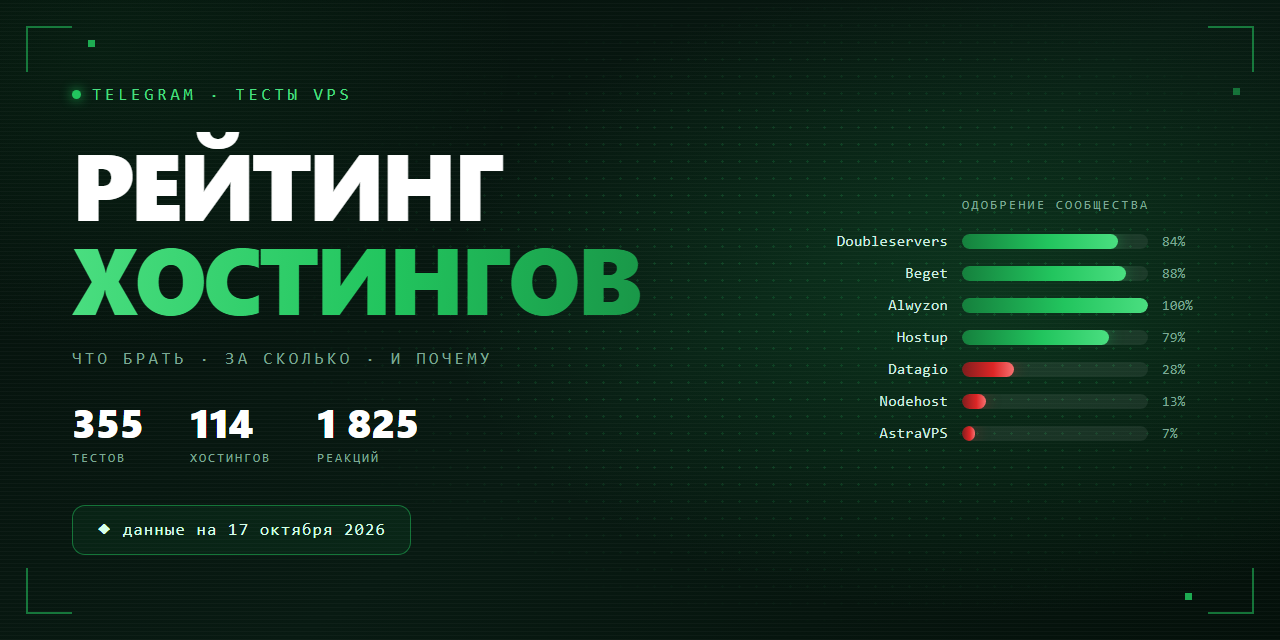
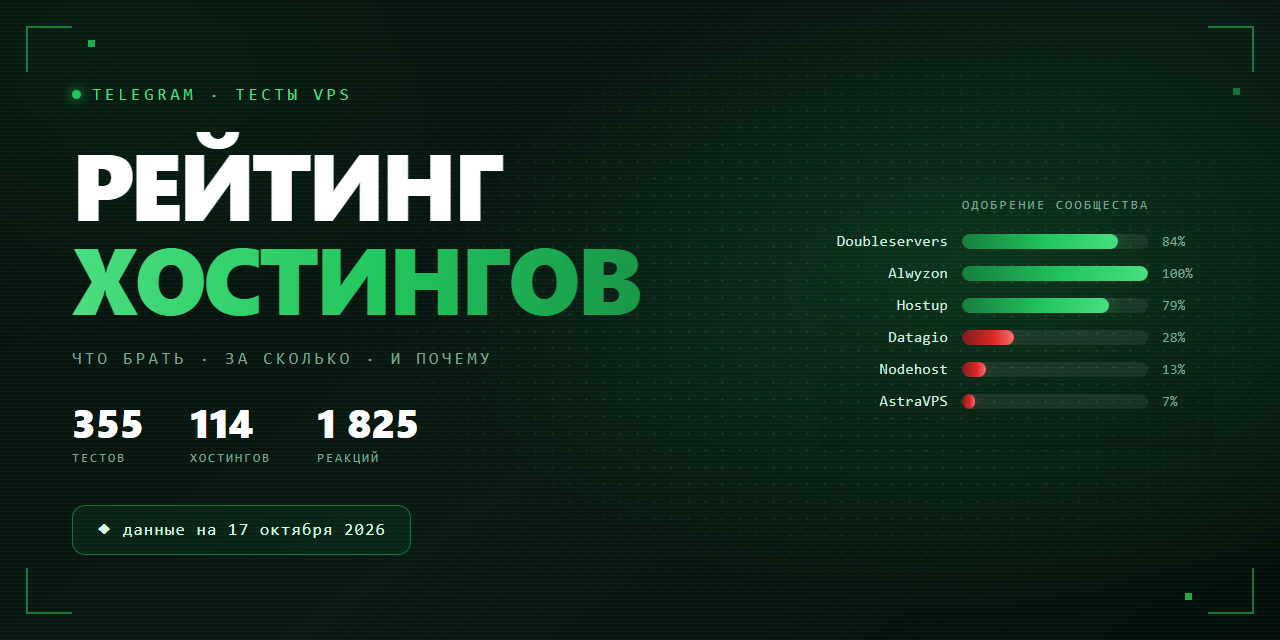
Убрать Beget из рейтинга
Удалены записи Beget из README (топ, «Мост из РФ», полный рейтинг),
DISCUSSION_RATING.md, упоминания в CHANGELOG и полоса на баннере.
Таблицы перенумерованы, число оценённых хостингов 59 → 58.

Changed region(s): [[0.6875, 0.4062, 0.9375, 0.6875], [0.9062, 0.625, 0.9375, 0.6875], [0.6875, 0.4062, 0.75, 0.4375]]

diff --git a/README.md b/README.md
@@ -14,12 +14,11 @@
 
 ## ⚡ Если не хочется читать
 
-Четыре варианта, которые закрывают большинство запросов. Процент — доля положительных реакций, рядом указано, на скольких голосах она посчитана.
+Три варианта, которые закрывают большинство запросов. Процент — доля положительных реакций, рядом указано, на скольких голосах она посчитана.
 
 | | Берите | Цена | Почему именно его |
 |:---:|---|---|---|
 | 🏆 | **[Doubleservers](https://doubleservers.com)**<br>🇫🇷🇩🇪🇵🇱 | ≈ 12 € | **84%** одобрения при 56 голосах — по-прежнему самая надёжная оценка в рейтинге: 10 тестов от 7 разных авторов, ни одного провального. Берут под ноды, панели и ботов. Из РФ нужен мост |
-| 🇷🇺 | **[Beget](https://beget.com)**<br>🇷🇺🇱🇻 | ≈ 660 ₽ | **88%** при 24 голосах, 9 тестов от 6 авторов. Лучший выбор **под мост из РФ**: рублёвые карты, посуточная оплата. Новых тестов с конца августа не было |
 | 🌐 | **[Alwyzon](https://alwyzon.com)**<br>🇦🇹 | ≈ 4.5 € | **100%** при 15 голосах. Оба теста отмечают, что **мост из РФ не нужен**. Выборка небольшая — это лучший из доступных вариантов «без моста», а не гарантия |
 | 💸 | **[Hostup](https://hostup.se)**<br>🇸🇪 | ≈ 4.5 € | **79%** при 14 голосах, три теста от трёх авторов, свежий в сентябре — без падений за месяц. 10 Гбит, 2 ТБ трафика, KYC не просят. Оплата только зарубежными способами |
 
@@ -54,7 +53,7 @@
 |---|---|---|
 | **Нода VPN без моста** | [Waicore](https://waicore.com) · [Rawi Host](https://rawi.host) · [Xytor](https://xytor.cloud) · [Alwyzon](https://alwyzon.com) | Alwyzon — 100% при 15 голосах, оба теста без моста. Xytor — 54% при 41 голосе; в «Обсуждении» его хвалит в том числе представитель хостинга. У Rawi Host 5 независимых голосов, у Waicore — 3. Puws.Cloud, который здесь раньше советовали, — скам с 09.10 |
 | **Нода VPN с мостом из РФ** | [Doubleservers](https://doubleservers.com) · [Hetzner](https://hetzner.com) · [OVH](https://ovhcloud.com) | Doubleservers — 84% при 56 голосах, самый надёжный сигнал в рейтинге. У Hetzner и OVH за период по одному тесту |
-| **Мост из РФ** | [Beget](https://beget.com) — чаще всех · [Selectel](https://selectel.ru) · [TimeWeb](https://timeweb.cloud) | Beget 88%, Selectel 100% — оба подтверждены тестами, но новых с конца лета нет |
+| **Мост из РФ** | [Selectel](https://selectel.ru) · [TimeWeb](https://timeweb.cloud) | Selectel 100% — подтверждён тестами, но новых с конца лета нет |
 | **Панель + бот** | [Hetzner](https://hetzner.com) · [OVH](https://ovhcloud.com) · [Doubleservers](https://doubleservers.com) | По Hetzner и OVH данных мало. Doubleservers подтверждён |
 | **Максимальная стабильность** | [Hetzner](https://hetzner.com) · [OVH](https://ovhcloud.com) | Советуют по репутации, в тестах этого периода почти не встречаются |
 | **Экзотические локации** | Норвегия — [SharpTech](https://shrp.no); Таиланд — Metrabyte; Япония — [Akenai](https://akenai.host) · [Zeabur](https://zeabur.com); Латвия — [Veesp](https://veesp.com) | SharpTech и Metrabyte — по одному тесту, но без единого минуса |
@@ -115,8 +114,7 @@
 | 3 | **Metrabyte** | `██████████` **100%** | 730 ₽ | 10 ●●○ | 1 | = | 🇹🇭 |
 | 4 | **[Doubleservers](https://doubleservers.com)** | `████████░░` **84%** | €12 | 56 ●●● | 10 | 📉 | 🇫🇷🇩🇪🇵🇱 |
 | 5 | **[Selectel](https://selectel.ru)** | `██████████` **100%** | 250 ₽ | 9 ●○○ | 4 | — | 🇷🇺🇰🇿 |
-| 6 | **[Beget](https://beget.com)** | `█████████░` **88%** | 660 ₽ | 24 ●●○ | 9 | — | 🇷🇺🇱🇻 |
-| 7 | **[Hostdzire](https://hostdzire.com)** | `██████████` **100%** | €10 | 7 ●○○ | 1 | = | — |
+| 6 | **[Hostdzire](https://hostdzire.com)** | `██████████` **100%** | €10 | 7 ●○○ | 1 | = | — |
 
 ### 🔵 Рабочие
 
@@ -124,16 +122,16 @@
 
 | # | Хостинг | Одобрение | Цена | Голосов | Тестов | Тренд | Страны |
 |:---:|---|---|:---:|:---:|:---:|:---:|:---:|
-| 8 | **[Hostup](https://hostup.se)** | `████████░░` **79%** | €4.55 | 14 ●●○ | 3 | = | 🇸🇪 |
-| 9 | **[Tihost](https://t.me/Tihost)** | `███████░░░` **68%** | — | 19 ●●○ | 5 | 📉 | 🇫🇮🇩🇪🇵🇱 |
-| 10 | **[Soulful Hosting](https://soulful.host)** 🏷 | `█████░░░░░` **54%** | €5 | 61 ●●● | 10 | = | 🇩🇪🇪🇪🇵🇱 |
-| 11 | **H2Nexus** | `███████░░░` **67%** | — | 15 ●●○ | 1 | = | 🇫🇮 |
-| 12 | **[Xytor](https://xytor.cloud)** 🏷 | `█████░░░░░` **54%** | 474 ₽ | 41 ●●● | 10 | = | 🇵🇱 |
-| 13 | **[Akenai](https://akenai.host)** | `█████░░░░░` **51%** | $12.99 | 51 ●●● | 12 | = | 🇩🇪🇳🇱🇯🇵🇬🇧🇮🇹 |
-| 14 | **[Turtleguard](https://turtleguard.cloud)** | `██████░░░░` **55%** | $15.5 | 29 ●●● | 6 | = | 🇩🇪🇳🇱🇵🇱 |
-| 15 | **[Rawi Host](https://rawi.host)** 🏷 | `████████░░` **80%** | $6 | 5 ●○○ | 5 | = | 🇵🇱🇳🇱 |
-| 16 | **VerdianCloud** | `██████░░░░` **62%** | €13.25 | 13 ●●○ | 3 | = | 🇳🇱 |
-| 17 | **[Freakhosting](https://freakhosting.com)** | `██████░░░░` **60%** | 214 ₽ | 10 ●●○ | 3 | — | 🇩🇪🇺🇸 |
+| 7 | **[Hostup](https://hostup.se)** | `████████░░` **79%** | €4.55 | 14 ●●○ | 3 | = | 🇸🇪 |
+| 8 | **[Tihost](https://t.me/Tihost)** | `███████░░░` **68%** | — | 19 ●●○ | 5 | 📉 | 🇫🇮🇩🇪🇵🇱 |
+| 9 | **[Soulful Hosting](https://soulful.host)** 🏷 | `█████░░░░░` **54%** | €5 | 61 ●●● | 10 | = | 🇩🇪🇪🇪🇵🇱 |
+| 10 | **H2Nexus** | `███████░░░` **67%** | — | 15 ●●○ | 1 | = | 🇫🇮 |
+| 11 | **[Xytor](https://xytor.cloud)** 🏷 | `█████░░░░░` **54%** | 474 ₽ | 41 ●●● | 10 | = | 🇵🇱 |
+| 12 | **[Akenai](https://akenai.host)** | `█████░░░░░` **51%** | $12.99 | 51 ●●● | 12 | = | 🇩🇪🇳🇱🇯🇵🇬🇧🇮🇹 |
+| 13 | **[Turtleguard](https://turtleguard.cloud)** | `██████░░░░` **55%** | $15.5 | 29 ●●● | 6 | = | 🇩🇪🇳🇱🇵🇱 |
+| 14 | **[Rawi Host](https://rawi.host)** 🏷 | `████████░░` **80%** | $6 | 5 ●○○ | 5 | = | 🇵🇱🇳🇱 |
+| 15 | **VerdianCloud** | `██████░░░░` **62%** | €13.25 | 13 ●●○ | 3 | = | 🇳🇱 |
+| 16 | **[Freakhosting](https://freakhosting.com)** | `██████░░░░` **60%** | 214 ₽ | 10 ●●○ | 3 | — | 🇩🇪🇺🇸 |
 
 ### 🟡 Спорные
 
@@ -141,16 +139,16 @@
 
 | # | Хостинг | Одобрение | Цена | Голосов | Тестов | Тренд | Страны |
 |:---:|---|---|:---:|:---:|:---:|:---:|:---:|
-| 18 | **StenCloud** 🏷 | `█████░░░░░` **45%** | €6 | 33 ●●● | 6 | = | 🇪🇪🇳🇱 |
-| 19 | **[Vyrex](https://vyrex.co)** 🏷 | `████░░░░░░` **44%** | 554 ₽ | 39 ●●● | 11 | = | 🇳🇱🇩🇪🇵🇱 |
-| 20 | **[CiraCloud](https://t.me/ciraCloud_bot)** | `████░░░░░░` **43%** | 306 ₽ | 28 ●●● | 3 | = | 🇵🇱🇫🇮 |
-| 21 | **[Hip-Hosting](https://hshp.host)** | `████░░░░░░` **36%** | 320 ₽ | 45 ●●● | 10 | = | 🇩🇪🇪🇪🇷🇺🇱🇹 |
-| 22 | **[Cloudrix](https://cloudrix.ru)** | `██████░░░░` **60%** | — | 5 ●○○ | 1 | — | 🇷🇺 |
-| 23 | **[Datagio](https://datagio.net)** 🏷 | `███░░░░░░░` **28%** | 434 ₽ | 124 ●●● | 20 | = | 🇩🇪🇳🇱🇵🇱🇪🇪 |
-| 24 | **[Play2Go](https://play2go.cloud)** 🎭 | `███░░░░░░░` **28%** | 615 ₽ | 76 ●●● | 6 | 📈 | 🇩🇪🇵🇱🇸🇪🇫🇮 |
-| 25 | **[Aeza](https://aeza.net)** | `███░░░░░░░` **27%** | €5.93 | 66 ●●● | 10 | 📈 | 🇫🇮🇷🇺🇩🇪 |
-| 26 | **Cherry Servers** | `████░░░░░░` **36%** | — | 14 ●●○ | 2 | = | 🇸🇪🇳🇱 |
-| 27 | **[Dedicate IT](https://t.me/dedicate_it_bot)** | `████░░░░░░` **43%** | 599 ₽ | 7 ●○○ | 1 | — | 🇩🇪 |
+| 17 | **StenCloud** 🏷 | `█████░░░░░` **45%** | €6 | 33 ●●● | 6 | = | 🇪🇪🇳🇱 |
+| 18 | **[Vyrex](https://vyrex.co)** 🏷 | `████░░░░░░` **44%** | 554 ₽ | 39 ●●● | 11 | = | 🇳🇱🇩🇪🇵🇱 |
+| 19 | **[CiraCloud](https://t.me/ciraCloud_bot)** | `████░░░░░░` **43%** | 306 ₽ | 28 ●●● | 3 | = | 🇵🇱🇫🇮 |
+| 20 | **[Hip-Hosting](https://hshp.host)** | `████░░░░░░` **36%** | 320 ₽ | 45 ●●● | 10 | = | 🇩🇪🇪🇪🇷🇺🇱🇹 |
+| 21 | **[Cloudrix](https://cloudrix.ru)** | `██████░░░░` **60%** | — | 5 ●○○ | 1 | — | 🇷🇺 |
+| 22 | **[Datagio](https://datagio.net)** 🏷 | `███░░░░░░░` **28%** | 434 ₽ | 124 ●●● | 20 | = | 🇩🇪🇳🇱🇵🇱🇪🇪 |
+| 23 | **[Play2Go](https://play2go.cloud)** 🎭 | `███░░░░░░░` **28%** | 615 ₽ | 76 ●●● | 6 | 📈 | 🇩🇪🇵🇱🇸🇪🇫🇮 |
+| 24 | **[Aeza](https://aeza.net)** | `███░░░░░░░` **27%** | €5.93 | 66 ●●● | 10 | 📈 | 🇫🇮🇷🇺🇩🇪 |
+| 25 | **Cherry Servers** | `████░░░░░░` **36%** | — | 14 ●●○ | 2 | = | 🇸🇪🇳🇱 |
+| 26 | **[Dedicate IT](https://t.me/dedicate_it_bot)** | `████░░░░░░` **43%** | 599 ₽ | 7 ●○○ | 1 | — | 🇩🇪 |
 
 ### 🔴 Избегать
 
@@ -158,38 +156,38 @@
 
 | # | Хостинг | Одобрение | Цена | Голосов | Тестов | Тренд | Страны |
 |:---:|---|---|:---:|:---:|:---:|:---:|:---:|
-| 28 | **[Clouvider](https://clouvider.com)** | `████░░░░░░` **38%** | €4.05 | 8 ●○○ | 1 | — | 🇳🇱 |
-| 29 | **[Forestsnet](https://forestsnet.cloud)** | `████░░░░░░` **38%** | €4.8 | 8 ●○○ | 3 | = | 🇳🇱 |
-| 30 | **[Hosting-Russia](https://hosting-russia.ru)** | `████░░░░░░` **38%** | 250 ₽ | 8 ●○○ | 2 | = | 🇷🇺 |
-| 31 | **[ExpressHost](https://t.me/ExpressHost_Bot)** | `██░░░░░░░░` **18%** | $3.505 | 114 ●●● | 12 | 📉 | 🇳🇱🇪🇪🇵🇱 |
-| 32 | **PowerRDP** 🎭 | `██░░░░░░░░` **25%** | $6 | 16 ●●○ | 3 | = | 🇵🇱 |
-| 33 | **[Nodehost](https://nodehost.ru)** | `█░░░░░░░░░` **13%** | 202 ₽ | 111 ●●● | 11 | = | 🇫🇮🇸🇪🇵🇱🇳🇱🇩🇪 |
-| 34 | **[OneDash](https://t.me/OneDash)** | `█░░░░░░░░░` **14%** | 214 ₽ | 74 ●●● | 10 | = | 🇩🇪🇳🇱🇺🇸🇷🇺🇫🇮 |
-| 35 | **[1cent.host](https://1cent.host)** | `██░░░░░░░░` **18%** | 693 ₽ | 22 ●●○ | 4 | = | 🇩🇪🇪🇪🇫🇮 |
-| 36 | **LunarHost** | `█░░░░░░░░░` **13%** | 600 ₽ | 31 ●●● | 3 | = | 🇳🇱🇩🇪 |
-| 37 | **[VoltNode](https://t.me/voltnode_bot)** | `█░░░░░░░░░` **13%** | 699 ₽ | 23 ●●○ | 2 | = | 🇩🇪 |
-| 38 | **[Intezio](https://intezio.net)** | `██░░░░░░░░` **15%** | 310 ₽ | 13 ●●○ | 2 | = | 🇵🇱 |
-| 39 | **[AstraVPS](https://astravps.ru)** 🏷 🎭 | `█░░░░░░░░░` **7%** | 460 ₽ | 145 ●●● | 20 | = | 🇪🇪🇫🇮🇳🇱🇩🇪🇵🇱 |
-| 40 | **[Awas](https://awas.ovh)** | `██░░░░░░░░` **20%** | 300 ₽ | 5 ●○○ | 2 | — | 🇩🇪 |
-| 41 | **[Lili.cloud](https://lili.cloud)** | `██░░░░░░░░` **20%** | €12.5 | 5 ●○○ | 1 | = | 🇳🇱 |
-| 42 | **[Qwins](https://qwins.co)** | `█░░░░░░░░░` **8%** | $5 | 49 ●●● | 5 | = | 🇵🇱🇳🇱 |
-| 43 | **Wuldi** | `█░░░░░░░░░` **10%** | €8 | 10 ●●○ | 4 | = | 🇨🇿🇳🇱 |
-| 44 | **[It-Garage](https://it-garage.pro)** | `█░░░░░░░░░` **8%** | €6.75 | 12 ●●○ | 1 | — | 🇩🇪 |
-| 45 | **[ToolVPS](https://toolvps.com)** | `█░░░░░░░░░` **8%** | — | 12 ●●○ | 2 | = | 🇳🇱 |
-| 46 | **[Hostes.io](https://hostes.io)** 🏷 | `░░░░░░░░░░` **4%** | $10 | 48 ●●● | 6 | = | 🇳🇱🇵🇱🇩🇪 |
-| 47 | **Eternity Cloud** 🏷 | `█░░░░░░░░░` **6%** | €7 | 16 ●●○ | 3 | — | 🇪🇪🇩🇪 |
-| 48 | **[AdminVPS](https://adminvps.ru)** | `░░░░░░░░░░` **0%** | 799 ₽ | 34 ●●● | 2 | = | 🇷🇺🇵🇱 |
-| 49 | **[VpsPay](https://t.me/VPSPay_bot)** | `░░░░░░░░░░` **0%** | $3.9 | 24 ●●○ | 2 | — | 🇫🇮 |
-| 50 | **[4VPS](https://4vps.su)** | `░░░░░░░░░░` **0%** | 590 ₽ | 12 ●●○ | 3 | — | 🇭🇰🇺🇸🇦🇹 |
-| 51 | **[H1Cloud](https://h1cloud.net)** 🏷 | `░░░░░░░░░░` **0%** | 175 ₽ | 11 ●●○ | 2 | = | 🇨🇭🇳🇱 |
-| 52 | **[DataCheap](https://datacheap.ru)** | `░░░░░░░░░░` **0%** | 639 ₽ | 10 ●●○ | 1 | = | 🇳🇱 |
-| 53 | **Dataforest** | `░░░░░░░░░░` **0%** | — | 9 ●○○ | 1 | = | — |
-| 54 | **[MTW](https://mtw.ru)** | `░░░░░░░░░░` **0%** | 385 ₽ | 7 ●○○ | 1 | — | 🇷🇺 |
-| 55 | **[Serverspace](https://serverspace.ru)** | `░░░░░░░░░░` **0%** | — | 6 ●○○ | 2 | — | 🇳🇱🇰🇿 |
-| 56 | **SmartApe** | `░░░░░░░░░░` **0%** | 510 ₽ | 6 ●○○ | 1 | = | — |
-| 57 | **[UFO Hosting](https://ufo.hosting)** | `░░░░░░░░░░` **0%** | — | 6 ●○○ | 1 | = | — |
-| 58 | **DieselHost** | `░░░░░░░░░░` **0%** | 277 ₽ | 5 ●○○ | 1 | = | 🇵🇱 |
-| 59 | **[NodexGo](https://t.me/NodexGoBot)** | `░░░░░░░░░░` **0%** | — | 5 ●○○ | 1 | = | — |
+| 27 | **[Clouvider](https://clouvider.com)** | `████░░░░░░` **38%** | €4.05 | 8 ●○○ | 1 | — | 🇳🇱 |
+| 28 | **[Forestsnet](https://forestsnet.cloud)** | `████░░░░░░` **38%** | €4.8 | 8 ●○○ | 3 | = | 🇳🇱 |
+| 29 | **[Hosting-Russia](https://hosting-russia.ru)** | `████░░░░░░` **38%** | 250 ₽ | 8 ●○○ | 2 | = | 🇷🇺 |
+| 30 | **[ExpressHost](https://t.me/ExpressHost_Bot)** | `██░░░░░░░░` **18%** | $3.505 | 114 ●●● | 12 | 📉 | 🇳🇱🇪🇪🇵🇱 |
+| 31 | **PowerRDP** 🎭 | `██░░░░░░░░` **25%** | $6 | 16 ●●○ | 3 | = | 🇵🇱 |
+| 32 | **[Nodehost](https://nodehost.ru)** | `█░░░░░░░░░` **13%** | 202 ₽ | 111 ●●● | 11 | = | 🇫🇮🇸🇪🇵🇱🇳🇱🇩🇪 |
+| 33 | **[OneDash](https://t.me/OneDash)** | `█░░░░░░░░░` **14%** | 214 ₽ | 74 ●●● | 10 | = | 🇩🇪🇳🇱🇺🇸🇷🇺🇫🇮 |
+| 34 | **[1cent.host](https://1cent.host)** | `██░░░░░░░░` **18%** | 693 ₽ | 22 ●●○ | 4 | = | 🇩🇪🇪🇪🇫🇮 |
+| 35 | **LunarHost** | `█░░░░░░░░░` **13%** | 600 ₽ | 31 ●●● | 3 | = | 🇳🇱🇩🇪 |
+| 36 | **[VoltNode](https://t.me/voltnode_bot)** | `█░░░░░░░░░` **13%** | 699 ₽ | 23 ●●○ | 2 | = | 🇩🇪 |
+| 37 | **[Intezio](https://intezio.net)** | `██░░░░░░░░` **15%** | 310 ₽ | 13 ●●○ | 2 | = | 🇵🇱 |
+| 38 | **[AstraVPS](https://astravps.ru)** 🏷 🎭 | `█░░░░░░░░░` **7%** | 460 ₽ | 145 ●●● | 20 | = | 🇪🇪🇫🇮🇳🇱🇩🇪🇵🇱 |
+| 39 | **[Awas](https://awas.ovh)** | `██░░░░░░░░` **20%** | 300 ₽ | 5 ●○○ | 2 | — | 🇩🇪 |
+| 40 | **[Lili.cloud](https://lili.cloud)** | `██░░░░░░░░` **20%** | €12.5 | 5 ●○○ | 1 | = | 🇳🇱 |
+| 41 | **[Qwins](https://qwins.co)** | `█░░░░░░░░░` **8%** | $5 | 49 ●●● | 5 | = | 🇵🇱🇳🇱 |
+| 42 | **Wuldi** | `█░░░░░░░░░` **10%** | €8 | 10 ●●○ | 4 | = | 🇨🇿🇳🇱 |
+| 43 | **[It-Garage](https://it-garage.pro)** | `█░░░░░░░░░` **8%** | €6.75 | 12 ●●○ | 1 | — | 🇩🇪 |
+| 44 | **[ToolVPS](https://toolvps.com)** | `█░░░░░░░░░` **8%** | — | 12 ●●○ | 2 | = | 🇳🇱 |
+| 45 | **[Hostes.io](https://hostes.io)** 🏷 | `░░░░░░░░░░` **4%** | $10 | 48 ●●● | 6 | = | 🇳🇱🇵🇱🇩🇪 |
+| 46 | **Eternity Cloud** 🏷 | `█░░░░░░░░░` **6%** | €7 | 16 ●●○ | 3 | — | 🇪🇪🇩🇪 |
+| 47 | **[AdminVPS](https://adminvps.ru)** | `░░░░░░░░░░` **0%** | 799 ₽ | 34 ●●● | 2 | = | 🇷🇺🇵🇱 |
+| 48 | **[VpsPay](https://t.me/VPSPay_bot)** | `░░░░░░░░░░` **0%** | $3.9 | 24 ●●○ | 2 | — | 🇫🇮 |
+| 49 | **[4VPS](https://4vps.su)** | `░░░░░░░░░░` **0%** | 590 ₽ | 12 ●●○ | 3 | — | 🇭🇰🇺🇸🇦🇹 |
+| 50 | **[H1Cloud](https://h1cloud.net)** 🏷 | `░░░░░░░░░░` **0%** | 175 ₽ | 11 ●●○ | 2 | = | 🇨🇭🇳🇱 |
+| 51 | **[DataCheap](https://datacheap.ru)** | `░░░░░░░░░░` **0%** | 639 ₽ | 10 ●●○ | 1 | = | 🇳🇱 |
+| 52 | **Dataforest** | `░░░░░░░░░░` **0%** | — | 9 ●○○ | 1 | = | — |
+| 53 | **[MTW](https://mtw.ru)** | `░░░░░░░░░░` **0%** | 385 ₽ | 7 ●○○ | 1 | — | 🇷🇺 |
+| 54 | **[Serverspace](https://serverspace.ru)** | `░░░░░░░░░░` **0%** | — | 6 ●○○ | 2 | — | 🇳🇱🇰🇿 |
+| 55 | **SmartApe** | `░░░░░░░░░░` **0%** | 510 ₽ | 6 ●○○ | 1 | = | — |
+| 56 | **[UFO Hosting](https://ufo.hosting)** | `░░░░░░░░░░` **0%** | — | 6 ●○○ | 1 | = | — |
+| 57 | **DieselHost** | `░░░░░░░░░░` **0%** | 277 ₽ | 5 ●○○ | 1 | = | 🇵🇱 |
+| 58 | **[NodexGo](https://t.me/NodexGoBot)** | `░░░░░░░░░░` **0%** | — | 5 ●○○ | 1 | = | — |
 
 ### ⛔ Скам — выведены из рейтинга
 
@@ -268,7 +266,7 @@
 
 ## Как это считается
 
-Источник — сообщения чата «Тесты VPS» за 2026-05-13 — 2026-10-17. Тестом считается пост со скриншотом, узнанным хостингом и вердиктом автора: таких **355** по **114 брендам**, из них 59 набрали достаточно реакций для оценки.
+Источник — сообщения чата «Тесты VPS» за 2026-05-13 — 2026-10-17. Тестом считается пост со скриншотом, узнанным хостингом и вердиктом автора: таких **355** по **114 брендам**, из них 58 набрали достаточно реакций для оценки.
 
 ### Оценка
 

diff --git a/DISCUSSION_RATING.md b/DISCUSSION_RATING.md
@@ -64,49 +64,48 @@
 |:---:|---|:---:|:---:|:---:|:---:|:---:|:---:|:---:|:---:|---|
 | 1 | **Aeza** | 1003 | `▃▆█▅▄▃` | 95 | 215 | 293 | 176 | 146 | 78 | 🟡 27% |
 | 2 | **Nodehost** | 542 | `▄█▇▇▄▂` | 53 | 147 | 125 | 134 | 60 | 23 | 🔴 13% |
-| 3 | **Beget** | 428 | `▄▇█▇█▄` | 44 | 82 | 93 | 81 | 91 | 37 | 🟢 88% |
-| 4 | **Selectel** | 391 | `▄▆█▇▆▃` | 35 | 75 | 96 | 89 | 67 | 29 | 🟢 100% |
-| 5 | **Datagio** | 362 | `▁▃▂▃█▆` | 0 | 49 | 22 | 43 | 146 | 102 | 🟡 28% |
-| 6 | **Hetzner** | 291 | `▃▄▆█▅▄` | 23 | 38 | 63 | 81 | 48 | 38 | ⚪ мало данных (1 т. / 4 гол.) |
-| 7 | **Play2Go** | 267 | `█▅▇▇▅▄` | 62 | 32 | 56 | 54 | 39 | 24 | 🟡 28% |
-| 8 | **TimeWeb** | 260 | `▃▇▇██▃` | 20 | 52 | 53 | 57 | 61 | 17 | ⚪ мало данных (1 т. / 3 гол.) |
-| 9 | **Akenai** | 230 | `▃██▅▇▃` | 19 | 59 | 55 | 35 | 49 | 13 | 🔵 51% |
-| 10 | **Waicore** | 196 | `▅▇█▅▅▆` | 26 | 41 | 46 | 27 | 25 | 31 | ⚪ мало данных (5 т. / 3 гол.) |
-| 11 | **Intezio** | 193 | `▃█▃▂▂▁` | 25 | 104 | 36 | 12 | 15 | 1 | 🔴 15% |
-| 12 | **Eternity Cloud** | 159 | `▂▃▄▇█▂` | 9 | 19 | 23 | 45 | 56 | 7 | 🔴 6% |
-| 13 | **Qwins** | 151 | `▄▅█▆▄▁` | 18 | 27 | 49 | 33 | 21 | 3 | 🔴 8% |
-| 14 | **OneDash** | 84 | `▃▃▅█▅▁` | 9 | 8 | 16 | 32 | 17 | 2 | 🔴 14% |
-| 15 | **AstraVPS** | 84 | `▁▁▃▃█▆` | 0 | 0 | 12 | 12 | 36 | 24 | 🔴 7% |
-| 16 | **1cent.host** | 80 | `▅▅▄▇█▃` | 13 | 12 | 10 | 17 | 21 | 7 | 🔴 18% |
-| 17 | **Puws.Cloud** | 77 | `▁▅█▄▃▃` | 0 | 19 | 30 | 13 | 7 | 8 | ⛔ скам с 2026-10-09 |
-| 18 | **H1Cloud** | 62 | `▁▁▃▂█▄` | 0 | 1 | 8 | 3 | 34 | 16 | 🔴 0% |
-| 19 | **4VPS** | 58 | `▃█▆█▃▂` | 6 | 17 | 12 | 16 | 4 | 3 | 🔴 0% |
-| 20 | **ExpressHost** | 57 | `▅█▆▄▆▂` | 10 | 16 | 11 | 6 | 11 | 3 | 🔴 18% |
-| 21 | **Doubleservers** | 52 | `▃▅▆█▂▂` | 6 | 10 | 13 | 18 | 3 | 2 | 🟢 84% |
-| 22 | **Veesp** | 50 | `▇█▅█▇▂` | 10 | 11 | 7 | 11 | 9 | 2 | ⚪ мало данных (5 т. / 0 гол.) |
-| 23 | **AdminVPS** | 45 | `▅▅█▆▇▁` | 7 | 6 | 12 | 9 | 11 | 0 | 🔴 0% |
-| 24 | **Soulful Hosting** | 45 | `▁▁█▄▄▃` | 0 | 0 | 20 | 9 | 9 | 7 | 🔵 54% |
-| 25 | **H2Nexus** | 43 | `▂▂▃▄█▆` | 3 | 3 | 4 | 7 | 15 | 11 | 🔵 67% |
-| 26 | **Vyrex** | 41 | `▃▂█▅▅▂` | 4 | 2 | 16 | 8 | 8 | 3 | 🟡 44% |
-| 27 | **Mevspace** | 39 | `▃▅▄▃█▄` | 3 | 8 | 6 | 4 | 13 | 5 | нет тестов |
-| 28 | **VpsPay** | 39 | `▃▄█▇▇▂` | 3 | 4 | 11 | 10 | 9 | 2 | 🔴 0% |
-| 29 | **Hip-Hosting** | 39 | `▃▇▃▃█▃` | 4 | 11 | 3 | 4 | 14 | 3 | 🟡 36% |
-| 30 | **HostKey** | 39 | `▃▅█▃▄▅` | 4 | 7 | 12 | 4 | 5 | 7 | ⚪ мало данных (2 т. / 0 гол.) |
-| 31 | **Xytor** | 37 | `▁▁▃▇▅█` | 0 | 0 | 4 | 12 | 8 | 13 | 🔵 54% |
-| 32 | **DHostvps** | 33 | `▃▆▃██▄` | 2 | 7 | 2 | 9 | 9 | 4 | ⚪ мало данных (3 т. / 4 гол.) |
-| 33 | **Serv.host** | 32 | `▅▃▄▂█▃` | 7 | 4 | 5 | 1 | 12 | 3 | ⚪ мало данных (2 т. / 1 гол.) |
-| 34 | **FirstVDS** | 31 | `▃█▅▃▂▁` | 4 | 13 | 8 | 4 | 2 | 0 | ⚪ мало данных (1 т. / 4 гол.) |
-| 35 | **DataCheap** | 31 | `▂█▅▅▇▂` | 1 | 10 | 6 | 5 | 8 | 1 | 🔴 0% |
-| 36 | **Hostup** | 30 | `▂█▆▃▅▂` | 2 | 10 | 7 | 3 | 6 | 2 | 🔵 79% |
-| 37 | **StenCloud** | 27 | `▁▁▁▃█▃` | 0 | 0 | 0 | 6 | 17 | 4 | 🟡 45% |
-| 38 | **Cloudrix** | 26 | `▆▆▄▅█▃` | 5 | 5 | 3 | 4 | 7 | 2 | 🟡 60% |
-| 39 | **Vpstc** | 25 | `▅▆█▅▂▅` | 4 | 5 | 7 | 4 | 1 | 4 | нет тестов |
-| 40 | **Hostvds** | 24 | `▃▂▃▅█▄` | 3 | 1 | 2 | 5 | 9 | 4 | нет тестов |
-| 41 | **Forestsnet** | 23 | `▂▁▃█▇▃` | 1 | 0 | 2 | 9 | 8 | 3 | 🔴 38% |
-| 42 | **Tihost** | 22 | `█▆▂▃▅▂` | 8 | 6 | 1 | 2 | 4 | 1 | 🔵 68% |
-| 43 | **UFO Hosting** | 21 | `▅█▂▆▂▄` | 4 | 7 | 1 | 5 | 1 | 3 | 🔴 0% |
-| 44 | **Hostes.io** | 21 | `▁▂█▂▄▃` | 0 | 1 | 11 | 2 | 4 | 3 | 🔴 4% |
-| 45 | **IShosting** | 20 | `▂█▂▃▁▂` | 1 | 12 | 1 | 4 | 0 | 2 | ⚪ мало данных (2 т. / 0 гол.) |
+| 3 | **Selectel** | 391 | `▄▆█▇▆▃` | 35 | 75 | 96 | 89 | 67 | 29 | 🟢 100% |
+| 4 | **Datagio** | 362 | `▁▃▂▃█▆` | 0 | 49 | 22 | 43 | 146 | 102 | 🟡 28% |
+| 5 | **Hetzner** | 291 | `▃▄▆█▅▄` | 23 | 38 | 63 | 81 | 48 | 38 | ⚪ мало данных (1 т. / 4 гол.) |
+| 6 | **Play2Go** | 267 | `█▅▇▇▅▄` | 62 | 32 | 56 | 54 | 39 | 24 | 🟡 28% |
+| 7 | **TimeWeb** | 260 | `▃▇▇██▃` | 20 | 52 | 53 | 57 | 61 | 17 | ⚪ мало данных (1 т. / 3 гол.) |
+| 8 | **Akenai** | 230 | `▃██▅▇▃` | 19 | 59 | 55 | 35 | 49 | 13 | 🔵 51% |
+| 9 | **Waicore** | 196 | `▅▇█▅▅▆` | 26 | 41 | 46 | 27 | 25 | 31 | ⚪ мало данных (5 т. / 3 гол.) |
+| 10 | **Intezio** | 193 | `▃█▃▂▂▁` | 25 | 104 | 36 | 12 | 15 | 1 | 🔴 15% |
+| 11 | **Eternity Cloud** | 159 | `▂▃▄▇█▂` | 9 | 19 | 23 | 45 | 56 | 7 | 🔴 6% |
+| 12 | **Qwins** | 151 | `▄▅█▆▄▁` | 18 | 27 | 49 | 33 | 21 | 3 | 🔴 8% |
+| 13 | **OneDash** | 84 | `▃▃▅█▅▁` | 9 | 8 | 16 | 32 | 17 | 2 | 🔴 14% |
+| 14 | **AstraVPS** | 84 | `▁▁▃▃█▆` | 0 | 0 | 12 | 12 | 36 | 24 | 🔴 7% |
+| 15 | **1cent.host** | 80 | `▅▅▄▇█▃` | 13 | 12 | 10 | 17 | 21 | 7 | 🔴 18% |
+| 16 | **Puws.Cloud** | 77 | `▁▅█▄▃▃` | 0 | 19 | 30 | 13 | 7 | 8 | ⛔ скам с 2026-10-09 |
+| 17 | **H1Cloud** | 62 | `▁▁▃▂█▄` | 0 | 1 | 8 | 3 | 34 | 16 | 🔴 0% |
+| 18 | **4VPS** | 58 | `▃█▆█▃▂` | 6 | 17 | 12 | 16 | 4 | 3 | 🔴 0% |
+| 19 | **ExpressHost** | 57 | `▅█▆▄▆▂` | 10 | 16 | 11 | 6 | 11 | 3 | 🔴 18% |
+| 20 | **Doubleservers** | 52 | `▃▅▆█▂▂` | 6 | 10 | 13 | 18 | 3 | 2 | 🟢 84% |
+| 21 | **Veesp** | 50 | `▇█▅█▇▂` | 10 | 11 | 7 | 11 | 9 | 2 | ⚪ мало данных (5 т. / 0 гол.) |
+| 22 | **AdminVPS** | 45 | `▅▅█▆▇▁` | 7 | 6 | 12 | 9 | 11 | 0 | 🔴 0% |
+| 23 | **Soulful Hosting** | 45 | `▁▁█▄▄▃` | 0 | 0 | 20 | 9 | 9 | 7 | 🔵 54% |
+| 24 | **H2Nexus** | 43 | `▂▂▃▄█▆` | 3 | 3 | 4 | 7 | 15 | 11 | 🔵 67% |
+| 25 | **Vyrex** | 41 | `▃▂█▅▅▂` | 4 | 2 | 16 | 8 | 8 | 3 | 🟡 44% |
+| 26 | **Mevspace** | 39 | `▃▅▄▃█▄` | 3 | 8 | 6 | 4 | 13 | 5 | нет тестов |
+| 27 | **VpsPay** | 39 | `▃▄█▇▇▂` | 3 | 4 | 11 | 10 | 9 | 2 | 🔴 0% |
+| 28 | **Hip-Hosting** | 39 | `▃▇▃▃█▃` | 4 | 11 | 3 | 4 | 14 | 3 | 🟡 36% |
+| 29 | **HostKey** | 39 | `▃▅█▃▄▅` | 4 | 7 | 12 | 4 | 5 | 7 | ⚪ мало данных (2 т. / 0 гол.) |
+| 30 | **Xytor** | 37 | `▁▁▃▇▅█` | 0 | 0 | 4 | 12 | 8 | 13 | 🔵 54% |
+| 31 | **DHostvps** | 33 | `▃▆▃██▄` | 2 | 7 | 2 | 9 | 9 | 4 | ⚪ мало данных (3 т. / 4 гол.) |
+| 32 | **Serv.host** | 32 | `▅▃▄▂█▃` | 7 | 4 | 5 | 1 | 12 | 3 | ⚪ мало данных (2 т. / 1 гол.) |
+| 33 | **FirstVDS** | 31 | `▃█▅▃▂▁` | 4 | 13 | 8 | 4 | 2 | 0 | ⚪ мало данных (1 т. / 4 гол.) |
+| 34 | **DataCheap** | 31 | `▂█▅▅▇▂` | 1 | 10 | 6 | 5 | 8 | 1 | 🔴 0% |
+| 35 | **Hostup** | 30 | `▂█▆▃▅▂` | 2 | 10 | 7 | 3 | 6 | 2 | 🔵 79% |
+| 36 | **StenCloud** | 27 | `▁▁▁▃█▃` | 0 | 0 | 0 | 6 | 17 | 4 | 🟡 45% |
+| 37 | **Cloudrix** | 26 | `▆▆▄▅█▃` | 5 | 5 | 3 | 4 | 7 | 2 | 🟡 60% |
+| 38 | **Vpstc** | 25 | `▅▆█▅▂▅` | 4 | 5 | 7 | 4 | 1 | 4 | нет тестов |
+| 39 | **Hostvds** | 24 | `▃▂▃▅█▄` | 3 | 1 | 2 | 5 | 9 | 4 | нет тестов |
+| 40 | **Forestsnet** | 23 | `▂▁▃█▇▃` | 1 | 0 | 2 | 9 | 8 | 3 | 🔴 38% |
+| 41 | **Tihost** | 22 | `█▆▂▃▅▂` | 8 | 6 | 1 | 2 | 4 | 1 | 🔵 68% |
+| 42 | **UFO Hosting** | 21 | `▅█▂▆▂▄` | 4 | 7 | 1 | 5 | 1 | 3 | 🔴 0% |
+| 43 | **Hostes.io** | 21 | `▁▂█▂▄▃` | 0 | 1 | 11 | 2 | 4 | 3 | 🔴 4% |
+| 44 | **IShosting** | 20 | `▂█▂▃▁▂` | 1 | 12 | 1 | 4 | 0 | 2 | ⚪ мало данных (2 т. / 0 гол.) |
 
 ---
 

diff --git a/CHANGELOG.md b/CHANGELOG.md
@@ -98,7 +98,7 @@
 
 - Хостинги со словом «cloud» в названии ошибочно засчитывались VK Cloud.
 - Упоминания Serv.host были завышены втрое: в счёт попадали «server», «serverspace», «servcity».
-- Тесты Beget приписывались Hetzner и TimeWeb, если те упоминались дальше по тексту («использую как мост к Hetzner»).
+- Тесты одного из российских хостингов приписывались Hetzner и TimeWeb, если те упоминались дальше по тексту («использую как мост к Hetzner»).
 - Короткий формат тестов отсекался вместе с реакциями — включая пост hostes.io с 💩×19.
 
 ### Ограничение, которое важно понимать
@@ -113,7 +113,7 @@
 
 **Объём:** +391 сообщение в «Тестах VPS» (66 новых тестов), +39 959 в «Обсуждении». Всего в рейтинге 92 хостинга.
 
-Ключевые изменения: Doubleservers +75 → +97, Beget +16 → +25, Selectel +22 → +29, Aeza −5 → −13 (💩×18 + обыски и задержание руководства), Nodehost −38 → −67, AdminVPS 0 → −6, Datagio +5 → +1. 17 новых хостингов. Введена пометка курсивом для Score, завышенных реакциями-согласием на разгромные обзоры.
+Ключевые изменения: Doubleservers +75 → +97, Selectel +22 → +29, Aeza −5 → −13 (💩×18 + обыски и задержание руководства), Nodehost −38 → −67, AdminVPS 0 → −6, Datagio +5 → +1. 17 новых хостингов. Введена пометка курсивом для Score, завышенных реакциями-согласием на разгромные обзоры.
 
 ---
 
